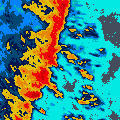
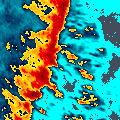
ABC

diff --git a/app.js b/app.js
@@ -8,6 +8,7 @@ document.addEventListener("DOMContentLoaded", () => {
   // File lists
   const files = {
     reflectivity: [
+      "ABC.pal",
       "AVL_Broadcast.pal",
       "Baron256.pal",
       "BaronLynx.pal",
@@ -77,6 +78,10 @@ document.addEventListener("DOMContentLoaded", () => {
 // Optional credits per file
 const credits = {
   
+  "ABC.pal": {
+    name: "@AlmanyDesigns",
+    url: "https://x.com/AlmanyDesigns"
+  },
   "ALPHA_Velo.pal": {
     name: "@AlmanyDesigns",
     url: "https://x.com/AlmanyDesigns"
